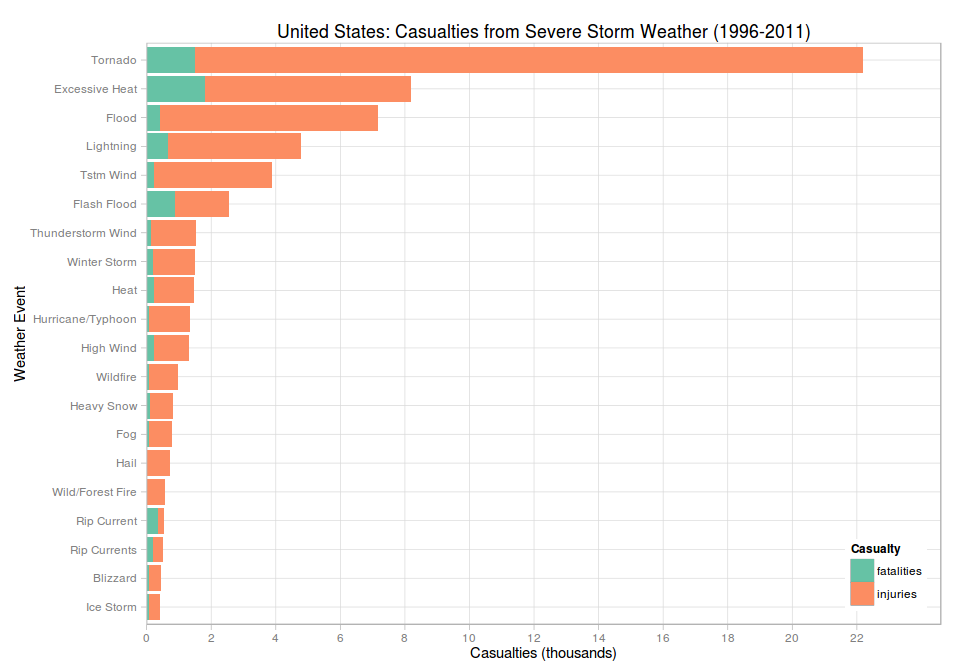
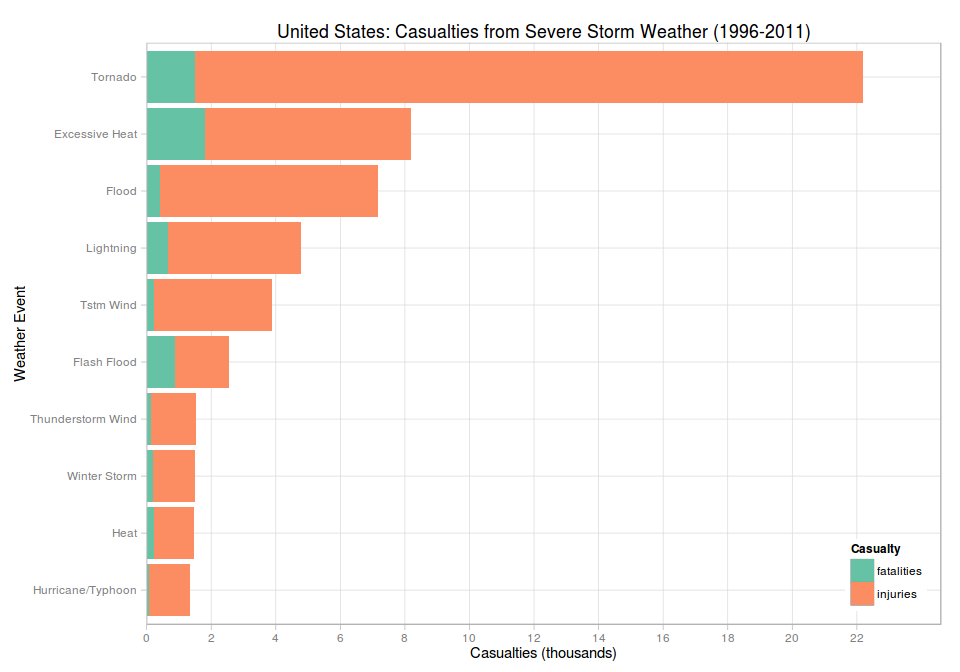
fix some of the evtypes, show only first 10 most severe events

Changed region(s): [[0.0312, 0.0625, 0.9062, 0.9375]]

diff --git a/README.md b/README.md
@@ -23,9 +23,8 @@ weather events we have made a number of simplifying assumptions:
 * looking at the entire USA and not focused on location specifics of state,
 county or marine region
 
-* the weather [events](#events) types is messy but will not be modified. Lets
-see the broader picture of weather effects to see if this will have a major
-impact.
+* the weather [events](#events) types are messy and will only be minimally
+modified to highlight the principle events
 
 
 ```r
@@ -77,8 +76,6 @@ names(data) <- tolower(names(data))
 names(data) <- gsub("_", "", names(data))
 # convert string to date
 data <- transform(data, bgndate = as.Date(bgndate, format= "%m/%d/%Y 0:00:00", tz = "C"))
-# use title-case for pretty reports
-data <- transform(data, evtype = str_to_title(str_trim(evtype)))
 # remove records where no casualties or damages have been recorded
 data <- data %>% filter(!(fatalities == 0 & injuries == 0 & propdmg == 0 & cropdmg == 0))
 ```
@@ -121,6 +118,39 @@ As per NWS Directive 10-1605 there are only 48 valid event types
 as listed in [Table 1, Section 2.1.1 "Storm Data Event Table", National Weather 
 Service Storm Data Documentation](#documentation). See also [Event Types 
 Available](http://www.ncdc.noaa.gov/stormevents/details.jsp?type=eventtype)
+
+Correct some of the more obvious issues with event types. Here we are only
+lightly touching the data, fixing the most obvious of event types to correspond
+to the permitted list.
+
+
+```r
+# use uppercase to make this easier
+data <- transform(data, evtype = toupper(str_trim(evtype)))
+
+# change according to order of significance as measured by causalities, damages
+data <- transform(data, evtype = gsub("TSTM", "THUNDERSTORM", evtype))
+data <- transform(data, evtype = gsub("^THUNDERSTORM.*", "THUNDERSTORM WIND", evtype))
+data <- transform(data, evtype = gsub("HURRICANE.*", "HURRICANE (TYPHOON)", evtype))
+data <- transform(data, evtype = gsub("^TYPHOON", "HURRICANE (TYPHOON)", evtype))
+data <- transform(data, evtype = gsub("EXTREME COLD.*", "EXTREME COLD/WIND CHILL", evtype))
+data <- transform(data, evtype = gsub("TIDAL FLOODING", "COASTAL FLOOD", evtype))
+data <- transform(data, evtype = gsub("CSTL", "COASTAL", evtype))
+data <- transform(data, evtype = gsub(".*COASTAL FLOOD.*", "COASTAL FLOOD", evtype))
+data <- transform(data, evtype = gsub("RIVER FLOOD.*", "FLOOD", evtype))
+data <- transform(data, evtype = gsub("ICE JAM FLOOD.*", "FLOOD", evtype))
+data <- transform(data, evtype = gsub(".*FLASH.FLOOD.*", "FLASH FLOOD", evtype))
+
+data <- transform(data, evtype = gsub("AVALANCE", "AVALANCHE", evtype))
+data <- transform(data, evtype = gsub("COASTALSTORM", "COASTAL STORM", evtype))
+data <- transform(data, evtype = gsub("RIP CURRENTS", "RIP CURRENT", evtype))
+data <- transform(data, evtype = gsub("URBAN/SML STREAM FLD", "FLASH FLOOD", evtype))
+data <- transform(data, evtype = gsub("WINTER WEATHER.*", "WINTER WEATHER", evtype))
+data <- transform(data, evtype = gsub(".* FIRE", "WILDFIRE", evtype))
+
+# use title-case for pretty reports
+data <- transform(data, evtype = str_to_title(evtype))
+```
 
 ### Casualties
 
@@ -203,8 +233,8 @@ that cause the greatest loss of life or injury are:
 # order by most severe events
 casualty <- arrange(casualty, desc(total))
 
-# show n = 20  events by casualty in descending order (first 2*n rows since long format)
-casualty[1:(2*20),] %>%
+# show n = 10  events by casualty in descending order (first 2*n rows since long format)
+casualty[1:(2*10),] %>%
     ggplot(aes(x = reorder(evtype, total), y = value/1000, fill = casualties)) +
     geom_bar(stat = "identity", position = "stack") +
     coord_flip() +
@@ -229,8 +259,8 @@ greatest economic cost are:
 # order by most severe events
 damage <- arrange(damage, desc(total))
 
-# show n = 20 events by damages in descending order (first 2*n rows since long format)
-damage[1:(2*20),] %>%
+# show n = 10 events by damages in descending order (first 2*n rows since long format)
+damage[1:(2*10),] %>%
     ggplot(aes(x = reorder(evtype, total), y = value/10^9, fill = damages)) +
     geom_bar(stat = "identity", position = "stack") +
     coord_flip() +
